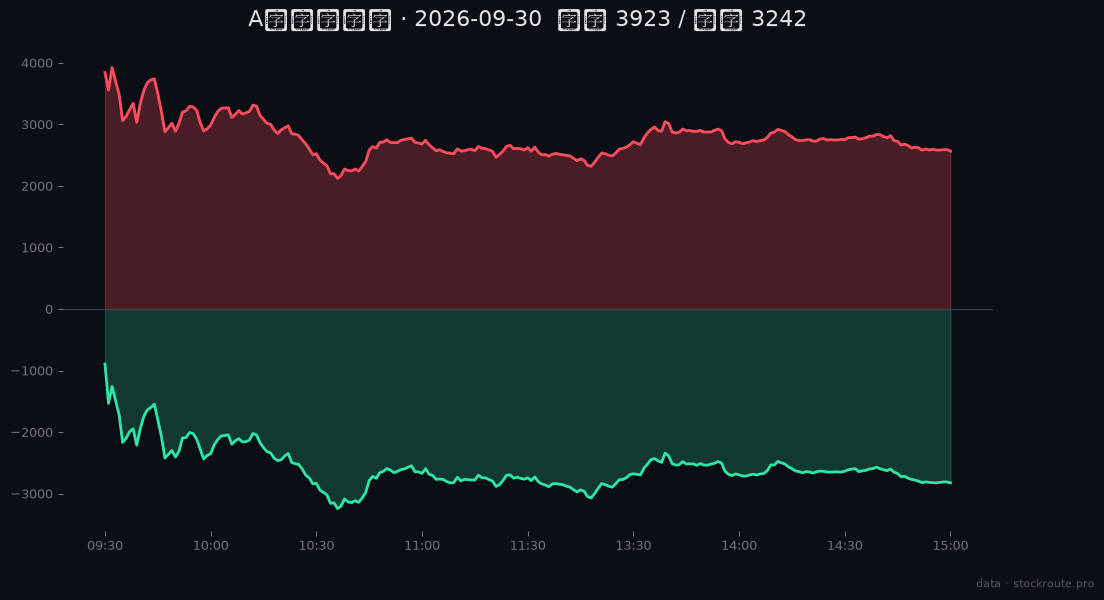
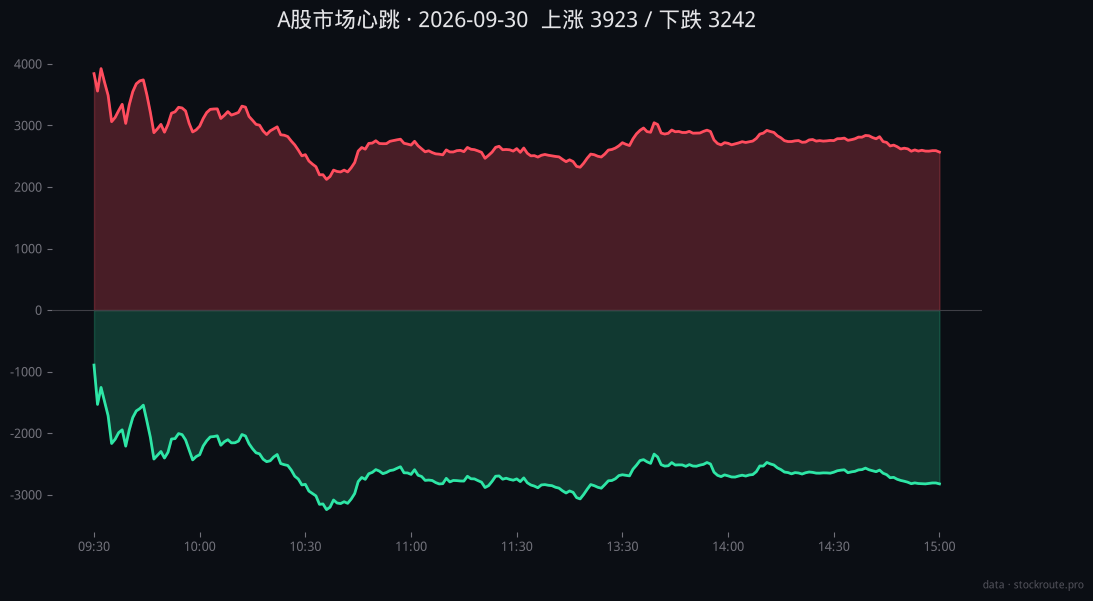
fix: 卡片 CJK 字体修复(matplotlib.rcParams 正名),重出 0930 中文正常版

diff --git a/cards/generator/render_cards.py b/cards/generator/render_cards.py
@@ -20,7 +20,7 @@ _CJK_CANDIDATES = [
 for _f in _CJK_CANDIDATES:
     if os.path.exists(_f):
         font_manager.fontManager.addfont(_f)
-        font_manager.rcParams["font.family"] = font_manager.FontProperties(fname=_f).get_name()
+        matplotlib.rcParams["font.family"] = font_manager.FontProperties(fname=_f).get_name()
         break
 matplotlib.rcParams["axes.unicode_minus"] = False
 
